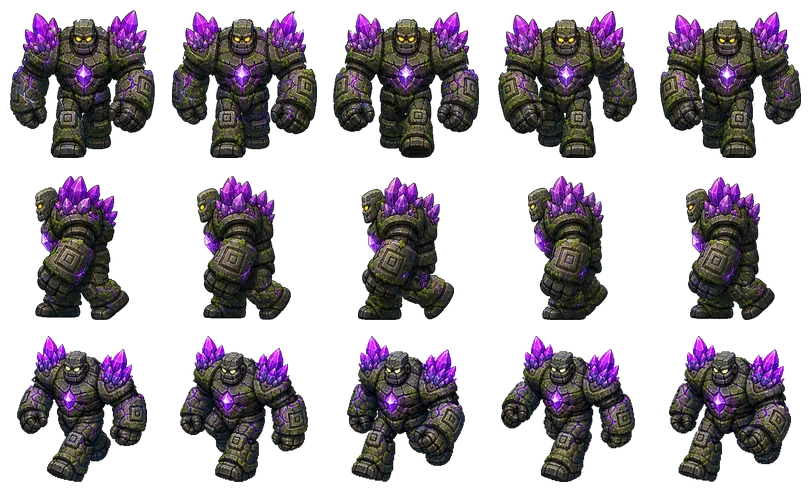
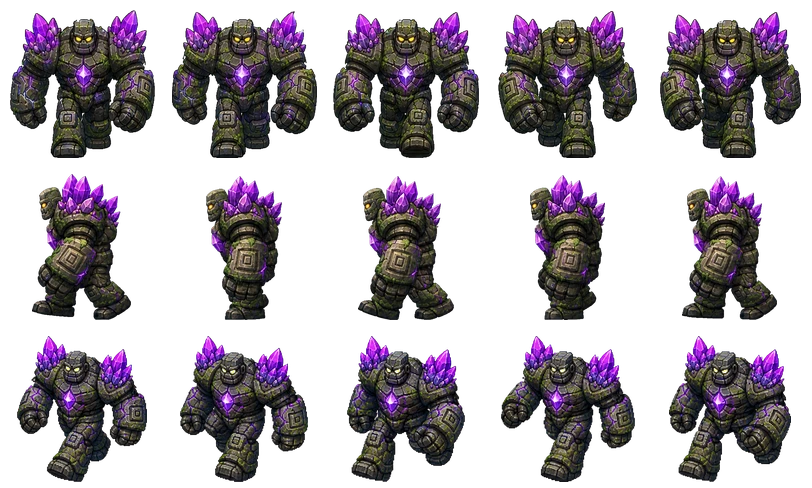
Deploy latest Vite build

diff --git a/index.html b/index.html
@@ -4,14 +4,48 @@
 <meta charset="UTF-8">
 <meta name="viewport" content="width=device-width, initial-scale=1.0, maximum-scale=1.0, user-scalable=no, viewport-fit=cover">
 <title>Merge Towers</title>
+<script src="https://game-cdn.poki.com/scripts/v2/poki-sdk.js"></script>
 <style>
-  html, body { margin: 0; padding: 0; background: #12131f; width: 100%; height: 100%; overflow: hidden; }
-  #game { position: fixed; inset: 0; width: 100vw; height: 100vh; height: 100dvh; touch-action: none; background: #12131f; }
+  :root { color-scheme: dark; --ink: #061019; --surface: #0e1d2b; --line: #4f7080; --mint: #63d6a3; --gold: #f3c95f; }
+  html, body { margin: 0; padding: 0; background: var(--ink); width: 100%; height: 100%; overflow: hidden; }
+  #game { position: fixed; inset: 0; width: 100vw; height: 100vh; height: 100dvh; touch-action: none; background: var(--ink); }
   canvas { display: block; }
+  #loading { position: fixed; inset: 0; z-index: 10; display: grid; place-content: center; justify-items: center; gap: 14px; color: #fff; background: radial-gradient(circle at 50% 34%, #17443f 0, #0b202b 34%, var(--ink) 72%); font: 700 18px/1.2 Arial, sans-serif; text-align: center; transition: opacity .3s ease; }
+  #loading::after { content: ''; position: fixed; inset: 0; pointer-events: none; opacity: .18; background: repeating-linear-gradient(135deg, transparent 0 64px, #8bd8c2 65px, transparent 66px 130px); mask-image: linear-gradient(to bottom, #000, transparent 70%); }
+  #loading.hidden { opacity: 0; pointer-events: none; }
+  .loading-mark { width: 58px; height: 58px; display: grid; place-items: center; border: 1px solid #6cc6a5; border-radius: 18px; color: var(--gold); background: #102a32cc; box-shadow: 0 14px 40px #0008, inset 0 1px #ffffff1a; font-size: 24px; transform: rotate(45deg); }
+  .loading-mark span { transform: rotate(-45deg); }
+  .loading-kicker { margin-top: 12px; color: #75d6ad; font-size: 10px; letter-spacing: .34em; }
+  .loading-title { color: #f5d675; font: 900 clamp(24px, 6vw, 32px)/1 Arial Black, Arial, sans-serif; letter-spacing: .04em; text-shadow: 0 3px #173646; }
+  #loading-bar { width: min(300px, 72vw); height: 8px; padding: 2px; overflow: hidden; border: 1px solid var(--line); border-radius: 999px; background: #08141e; box-shadow: 0 8px 24px #0006; }
+  #loading-fill { width: 0; height: 100%; border-radius: inherit; background: linear-gradient(90deg, var(--mint), var(--gold)); transition: width .12s ease; }
+  #loading-percent { color: #90a8b6; font-size: 12px; font-weight: 700; letter-spacing: .12em; }
+  @media (prefers-reduced-motion: reduce) { #loading, #loading-fill { transition: none; } }
 </style>
-  <script type="module" crossorigin src="./assets/index-CIHM4tWH.js"></script>
+  <script type="module" crossorigin src="./assets/index-XOGW38q3.js"></script>
 </head>
 <body>
-<div id="game"></div>
+<div id="loading" role="status" aria-live="polite">
+  <div class="loading-mark"><span>◆</span></div>
+  <div class="loading-kicker">STRATEGY · MERGE · DEFEND</div>
+  <div class="loading-title">MERGE TOWERS</div>
+  <div id="loading-bar"><div id="loading-fill"></div></div>
+  <div id="loading-percent">0%</div>
+</div>
+<div id="game"></div>
+<script>
+  window.setLoadingProgress = function (value) {
+    var percent = Math.round(Math.max(0, Math.min(1, value || 0)) * 100);
+    document.getElementById('loading-fill').style.width = percent + '%';
+    document.getElementById('loading-percent').textContent = percent + '%';
+  };
+  window.finishLoading = function () {
+    window.setLoadingProgress(1);
+    var loading = document.getElementById('loading');
+    loading.classList.add('hidden');
+    setTimeout(function () { loading.remove(); }, 300);
+  };
+</script>
+
 </body>
 </html>